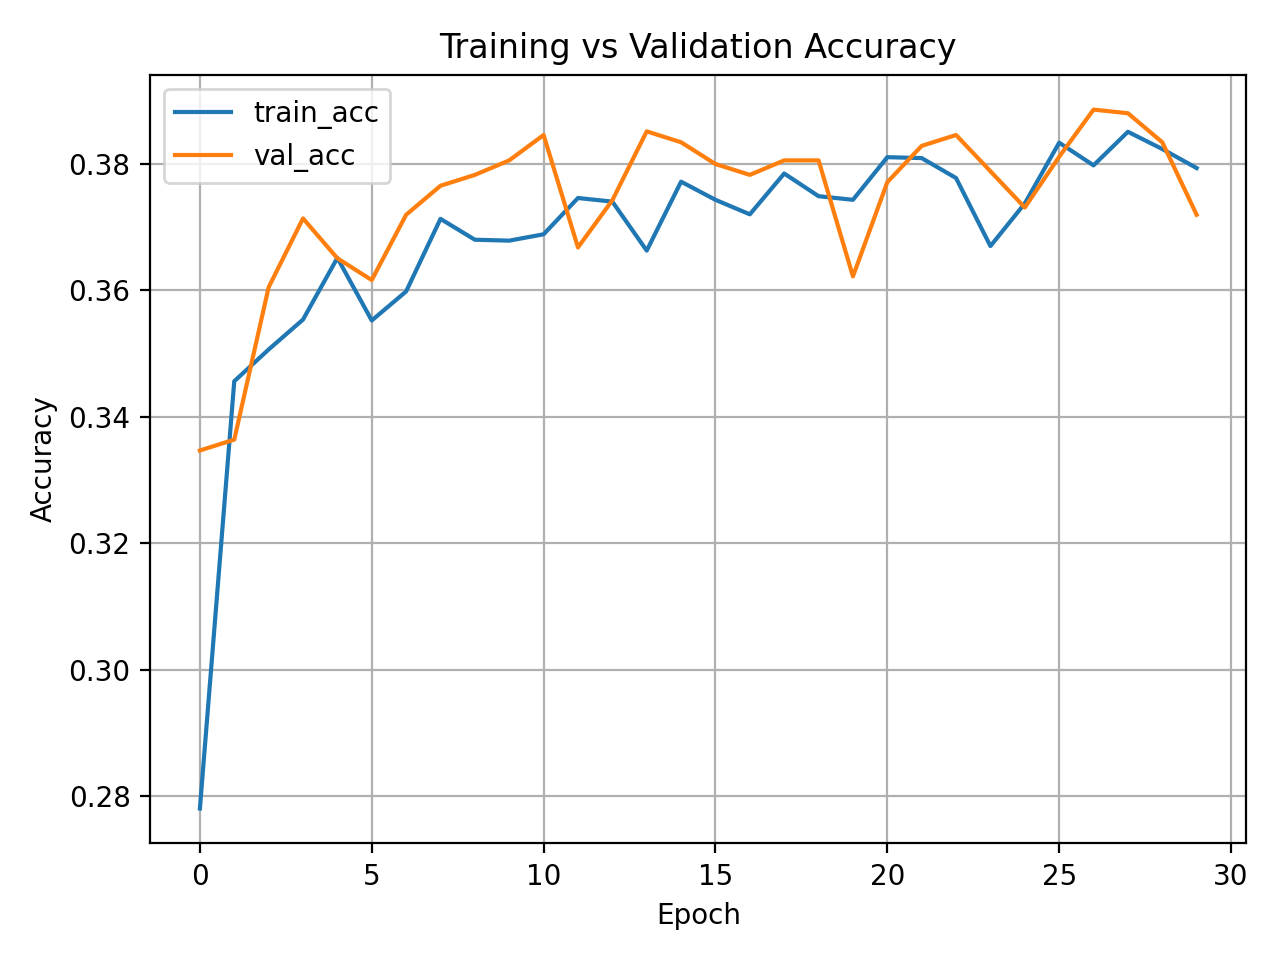
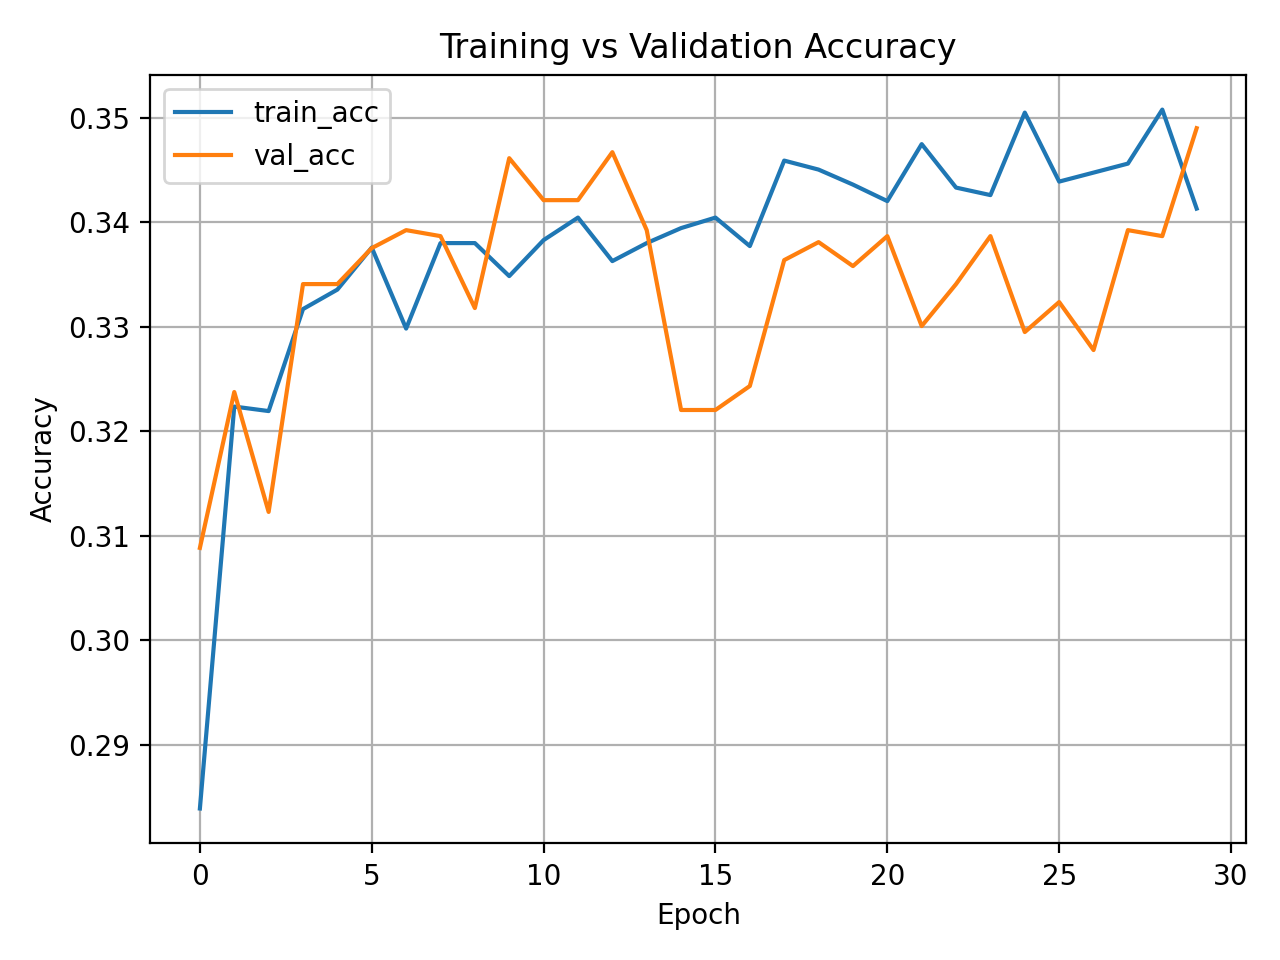
groq updated make weather prediction

diff --git a/weather/src/pages/SensorDashboardPage.vue b/weather/src/pages/SensorDashboardPage.vue
@@ -1,4 +1,4 @@
-// SensorDashboardPage.vue - Updated with Detail Modal
+// SensorDashboardPage.vue - Updated with Detail Modal and Weather Prediction
 <script setup>
 import { ref, computed, onMounted, onUnmounted } from 'vue'
 import AppShell from '../components/layout/AppShell.vue'
@@ -66,6 +66,7 @@ async function loadLatest() {
       noise: reading.noise ?? '—',
       tof: reading.tof ?? '—',
       angle: reading.angle ?? '—',
+      weather_prediction: reading.weather_prediction ?? '—',
       accX: reading.accX ?? '—',
       accY: reading.accY ?? '—',
       accZ: reading.accZ ?? '—',
@@ -110,6 +111,7 @@ async function loadDeviceDetails(deviceId) {
       noise: reading.noise ?? '—',
       tof: reading.tof ?? '—',
       angle: reading.angle ?? '—',
+      weather_prediction: reading.weather_prediction ?? '—',
       accX: reading.accX ?? '—',
       accY: reading.accY ?? '—',
       accZ: reading.accZ ?? '—',
@@ -191,7 +193,7 @@ function formatValue(v, unit) {
 
 onMounted(() => {
   loadLatest()
-  timer = setInterval(loadLatest, 15_000) // Refresh every 30 seconds
+  timer = setInterval(loadLatest, 15_000) // Refresh every 15 seconds
 })
 
 onUnmounted(() => {
@@ -426,6 +428,14 @@ onUnmounted(() => {
                       </strong>
                     </div>
                   </div>
+                  <div class="col-md-12">
+                    <div class="d-flex flex-column">
+                      <small class="text-secondary mb-1">Weather Prediction</small>
+                      <strong class="fs-5 text-light">
+                        {{ selectedDevice?.weather_prediction || '—' }}
+                      </strong>
+                    </div>
+                  </div>
                 </div>
                 <div class="mt-3 pt-3 border-top border-secondary">
                   <small class="text-secondary">Last Updated:</small>
@@ -472,6 +482,7 @@ onUnmounted(() => {
                         <th>Noise</th>
                         <th>ToF</th>
                         <th>Angle</th>
+                        <th>Weather</th>
                       </tr>
                     </thead>
                     <tbody>
@@ -484,6 +495,7 @@ onUnmounted(() => {
                         <td class="text-info">{{ formatValue(reading.noise, 'dB') }}</td>
                         <td class="text-success">{{ formatValue(reading.tof, 'cm') }}</td>
                         <td class="text-primary">{{ formatValue(reading.angle, 'deg') }}</td>
+                        <td class="text-light">{{ reading.weather_prediction || '—' }}</td>
                       </tr>
                     </tbody>
                   </table>

diff --git a/app/routes/rag.py b/app/routes/rag.py
@@ -1,4 +1,4 @@
-# routes/rag.py - Groq version with multi-language support and full sensor data
+# routes/rag.py - Groq version with multi-language support, full sensor data, and weather prediction
 from fastapi import APIRouter, HTTPException, UploadFile, File, Form
 from groq import Groq
 import os
@@ -31,12 +31,15 @@ You help visitors with questions about park conditions, environmental data, and 
 
 {context}
 
+{weather_context}
+
 INSTRUCTIONS:
 - Answer questions about temperature, humidity, pressure, light levels, noise levels, air quality, and other environmental conditions using the sensor data above.
 - Each device/sensor monitors a specific area of the park.
 - If asked about a specific device ID, use that device's data.
 - If sensor data is unavailable for a device, acknowledge it politely.
 - For general park questions, provide helpful summaries of the available data.
+- When discussing weather predictions, use the confidence level naturally (e.g., "it will likely rain" instead of "85% chance of rain").
 - If visitor asks about park facilities you don't have data for, politely say you don't have that information.
 - If no sensor data exists, inform the user the sensors are temporarily offline.
 - For general questions not about park conditions, answer helpfully and naturally.
@@ -52,12 +55,15 @@ AVAILABLE SENSOR METRICS:
 - Noise (dB): Ambient noise level
 - TOF: Time of Flight distance measurement (cm)
 - Acceleration: Movement/vibration data (X, Y, Z axes)
-- Location: GPS coordinates (latitude, longitude)""",
+- Location: GPS coordinates (latitude, longitude)
+- Weather Prediction: Predicted weather conditions from sensor analysis
+- Prediction Confidence: Confidence level (%) for the weather prediction""",
         "no_data": "PARK SENSOR DATA:\n(No sensor data available at the moment)",
         "invalid_format": "PARK SENSOR DATA:\n(Invalid sensor data format)",
         "parse_error": "PARK SENSOR DATA:\n(Sensor data parsing error)",
         "no_readings": "PARK SENSOR DATA:\n(No sensor readings available)",
         "data_header": "PARK SENSOR DATA:",
+        "weather_header": "WEATHER PREDICTION:",
     },
     "it": {
         "system_template": """Sei un utile Assistente AI per un sistema di Parco Intelligente.
@@ -65,12 +71,15 @@ Aiuti i visitatori con domande sulle condizioni del parco, dati ambientali e dom
 
 {context}
 
+{weather_context}
+
 ISTRUZIONI:
 - Rispondi alle domande su temperatura, umidità, pressione, livelli di luce, livelli di rumore, qualità dell'aria e altre condizioni ambientali usando i dati dei sensori sopra.
 - Ogni dispositivo/sensore monitora un'area specifica del parco.
 - Se viene chiesto di un ID dispositivo specifico, usa i dati di quel dispositivo.
 - Se i dati del sensore non sono disponibili per un dispositivo, riconoscilo gentilmente.
 - Per domande generali sul parco, fornisci riepiloghi utili dei dati disponibili.
+- Quando discuti delle previsioni meteo, usa il livello di confidenza in modo naturale (es. "probabilmente pioverà" invece di "85% di possibilità di pioggia").
 - Se il visitatore chiede delle strutture del parco per cui non hai dati, rispondi gentilmente che non hai queste informazioni.
 - Se non esistono dati dei sensori, informa l'utente che i sensori sono temporaneamente offline.
 - Per domande generali non relative alle condizioni del parco, rispondi in modo utile e naturale.
@@ -86,12 +95,15 @@ METRICHE SENSORI DISPONIBILI:
 - Rumore (dB): Livello di rumore ambientale
 - TOF: Misurazione della distanza Time of Flight (cm)
 - Accelerazione: Dati di movimento/vibrazione (assi X, Y, Z)
-- Posizione: Coordinate GPS (latitudine, longitudine)""",
+- Posizione: Coordinate GPS (latitudine, longitudine)
+- Previsione Meteo: Condizioni meteorologiche previste dall'analisi dei sensori
+- Confidenza Previsione: Livello di confidenza (%) per la previsione meteo""",
         "no_data": "DATI SENSORI PARCO:\n(Nessun dato sensore disponibile al momento)",
         "invalid_format": "DATI SENSORI PARCO:\n(Formato dati sensore non valido)",
         "parse_error": "DATI SENSORI PARCO:\n(Errore nell'analisi dei dati del sensore)",
         "no_readings": "DATI SENSORI PARCO:\n(Nessuna lettura sensore disponibile)",
         "data_header": "DATI SENSORI PARCO:",
+        "weather_header": "PREVISIONE METEO:",
     }
 }
 
@@ -101,6 +113,66 @@ def _normalize_audio_mime(mime: str | None) -> str:
         return "wav"
     mime = mime.strip().lower()
     return SUPPORTED_AUDIO_MIMES.get(mime, "wav")
+
+def _get_weather_from_data(device_data: str | None) -> tuple[str, float]:
+    """
+    Extract weather prediction from database sensor data
+    Returns: (weather_prediction, confidence_percentage)
+    """
+    if not device_data:
+        return "Unknown", 0.0
+    
+    try:
+        data_list = json.loads(device_data)
+        if not isinstance(data_list, list) or not data_list:
+            return "Unknown", 0.0
+        
+        # Get weather prediction from first device that has it
+        # (assuming all devices have the same weather prediction for the park)
+        for device in data_list:
+            if isinstance(device, dict):
+                if 'weather_prediction' in device and 'prediction_confidence' in device:
+                    prediction = device['weather_prediction']
+                    confidence = float(device['prediction_confidence'])
+                    return prediction, confidence
+        
+        # If no weather data found in any device
+        return "Unknown", 0.0
+        
+    except Exception as e:
+        print(f"Error extracting weather data: {e}")
+        return "Unknown", 0.0
+
+def _confidence_to_verbal(confidence: float, language: str = "en") -> str:
+    """
+    Convert confidence percentage to verbal expression
+    """
+    if language == "it":
+        if confidence >= 90:
+            return "quasi certamente"
+        elif confidence >= 80:
+            return "molto probabilmente"
+        elif confidence >= 70:
+            return "probabilmente"
+        elif confidence >= 60:
+            return "abbastanza probabilmente"
+        elif confidence >= 50:
+            return "forse"
+        else:
+            return "potrebbe essere"
+    else:  # English
+        if confidence >= 90:
+            return "almost certainly"
+        elif confidence >= 80:
+            return "very likely"
+        elif confidence >= 70:
+            return "likely"
+        elif confidence >= 60:
+            return "probably"
+        elif confidence >= 50:
+            return "possibly"
+        else:
+            return "might be"
 
 def _format_sensor_reading(device: Dict[str, Any], language: str = "en") -> str:
     """Format a single sensor device reading into a readable string"""
@@ -116,7 +188,9 @@ def _format_sensor_reading(device: Dict[str, Any], language: str = "en") -> str:
             "noise": "Rumore",
             "tof": "Distanza TOF",
             "location": "Posizione",
-            "time": "Ora"
+            "time": "Ora",
+            "weather": "Previsione Meteo",
+            "confidence": "Confidenza"
         }
     else:
         labels = {
@@ -128,7 +202,9 @@ def _format_sensor_reading(device: Dict[str, Any], language: str = "en") -> str:
             "noise": "Noise",
             "tof": "TOF Distance",
             "location": "Location",
-            "time": "Time"
+            "time": "Time",
+            "weather": "Weather Prediction",
+            "confidence": "Confidence"
         }
     
     parts = [f"{labels['device']} {device.get('device_id', 'Unknown')}:"]
@@ -146,6 +222,12 @@ def _format_sensor_reading(device: Dict[str, Any], language: str = "en") -> str:
         parts.append(f"  {labels['noise']}: {device['noise']} dB")
     if 'tof' in device:
         parts.append(f"  {labels['tof']}: {device['tof']} cm")
+    
+    # Weather prediction (if available)
+    if 'weather_prediction' in device:
+        parts.append(f"  {labels['weather']}: {device['weather_prediction']}")
+    if 'prediction_confidence' in device:
+        parts.append(f"  {labels['confidence']}: {device['prediction_confidence']}%")
     
     # Location data
     if 'latitude' in device and 'longitude' in device:
@@ -183,6 +265,22 @@ def _build_sensor_context(device_data: str | None, language: str = "en") -> str:
     
     return lang_strings["data_header"] + "\n\n" + "\n\n".join(readings)
 
+def _build_weather_context(weather_prediction: str, prediction_confidence: float, language: str = "en") -> str:
+    """Build weather prediction context with verbal confidence"""
+    lang_strings = SYSTEM_PROMPTS.get(language, SYSTEM_PROMPTS["en"])
+    
+    if weather_prediction == "Unknown" or prediction_confidence == 0.0:
+        return ""
+    
+    verbal_confidence = _confidence_to_verbal(prediction_confidence, language)
+    
+    if language == "it":
+        weather_text = f"{lang_strings['weather_header']}\nLe condizioni {verbal_confidence} saranno: {weather_prediction}"
+    else:
+        weather_text = f"{lang_strings['weather_header']}\nConditions will {verbal_confidence} be: {weather_prediction}"
+    
+    return weather_text
+
 @router.post("/chat")
 async def process_rag_request(
     user_query: str = Form(None),
@@ -203,8 +301,13 @@ async def process_rag_request(
         print(f"audio_file: {audio_file.filename if audio_file else 'None'}")
         print(f"audio_type: {audio_file.content_type if audio_file else 'None'}")
         
+        # Extract weather prediction from database sensor data
+        weather_prediction, prediction_confidence = _get_weather_from_data(device_data)
+        print(f"Weather prediction: {weather_prediction} (confidence: {prediction_confidence:.1f}%)")
+        
         # Build context with full sensor data
         context_str = _build_sensor_context(device_data, language)
+        weather_context_str = _build_weather_context(weather_prediction, prediction_confidence, language)
 
         # Validate: need at least audio OR text query
         if not user_query and not audio_file:
@@ -301,12 +404,17 @@ async def process_rag_request(
             )
             return {
                 "transcript": transcript,
-                "answer": error_response
+                "answer": error_response,
+                "weather_prediction": weather_prediction,
+                "prediction_confidence": prediction_confidence
             }
 
         # Get language-specific system prompt
         lang_prompts = SYSTEM_PROMPTS.get(language, SYSTEM_PROMPTS["en"])
-        system_message = lang_prompts["system_template"].format(context=context_str)
+        system_message = lang_prompts["system_template"].format(
+            context=context_str,
+            weather_context=weather_context_str
+        )
 
         # Call Groq Chat Completion
         print(f"Calling Groq chat completion with query: {query_text[:100]}...")
@@ -330,10 +438,12 @@ async def process_rag_request(
         answer = chat_completion.choices[0].message.content.strip()
         print(f"Groq response received: {answer[:200]}...")
 
-        # Return structured response
+        # Return structured response with weather prediction
         return {
             "transcript": transcript,
-            "answer": answer
+            "answer": answer,
+            "weather_prediction": weather_prediction,
+            "prediction_confidence": prediction_confidence
         }
 
     except HTTPException:

diff --git a/Robustel EG5120 ML/train_export.py b/Robustel EG5120 ML/train_export.py
@@ -9,7 +9,7 @@ import matplotlib.pyplot as plt
 import os
 
 SEED = 42
-FEATURES = ["temperature", "humidity", "pressure", "tof"]
+FEATURES = ["temperature", "humidity", "pressure"]
 LABEL_COL = "Weather"
 MIN_SAMPLES = 10
 dropout = 0.3
@@ -119,7 +119,6 @@ def main():
             "pressure": "kPa",
             "temperature": "C",
             "humidity": "%",
-            "tof": "unknown"
         },
         "scaler": {
             "mean": scaler.mean_.tolist(),

diff --git a/Robustel EG5120 ML/predictor.py b/Robustel EG5120 ML/predictor.py
@@ -20,7 +20,7 @@ def load_preprocess(path: str):
     with open(path, "r", encoding="utf-8") as f:
         pp = json.load(f)
 
-    features = pp.get("features", ["temperature", "humidity", "pressure", "tof"])
+    features = pp.get("features", ["temperature", "humidity", "pressure"])
     scaler = pp["scaler"]
     mean = np.array(scaler["mean"], dtype=np.float32)
     std = np.array(scaler["std"], dtype=np.float32)
